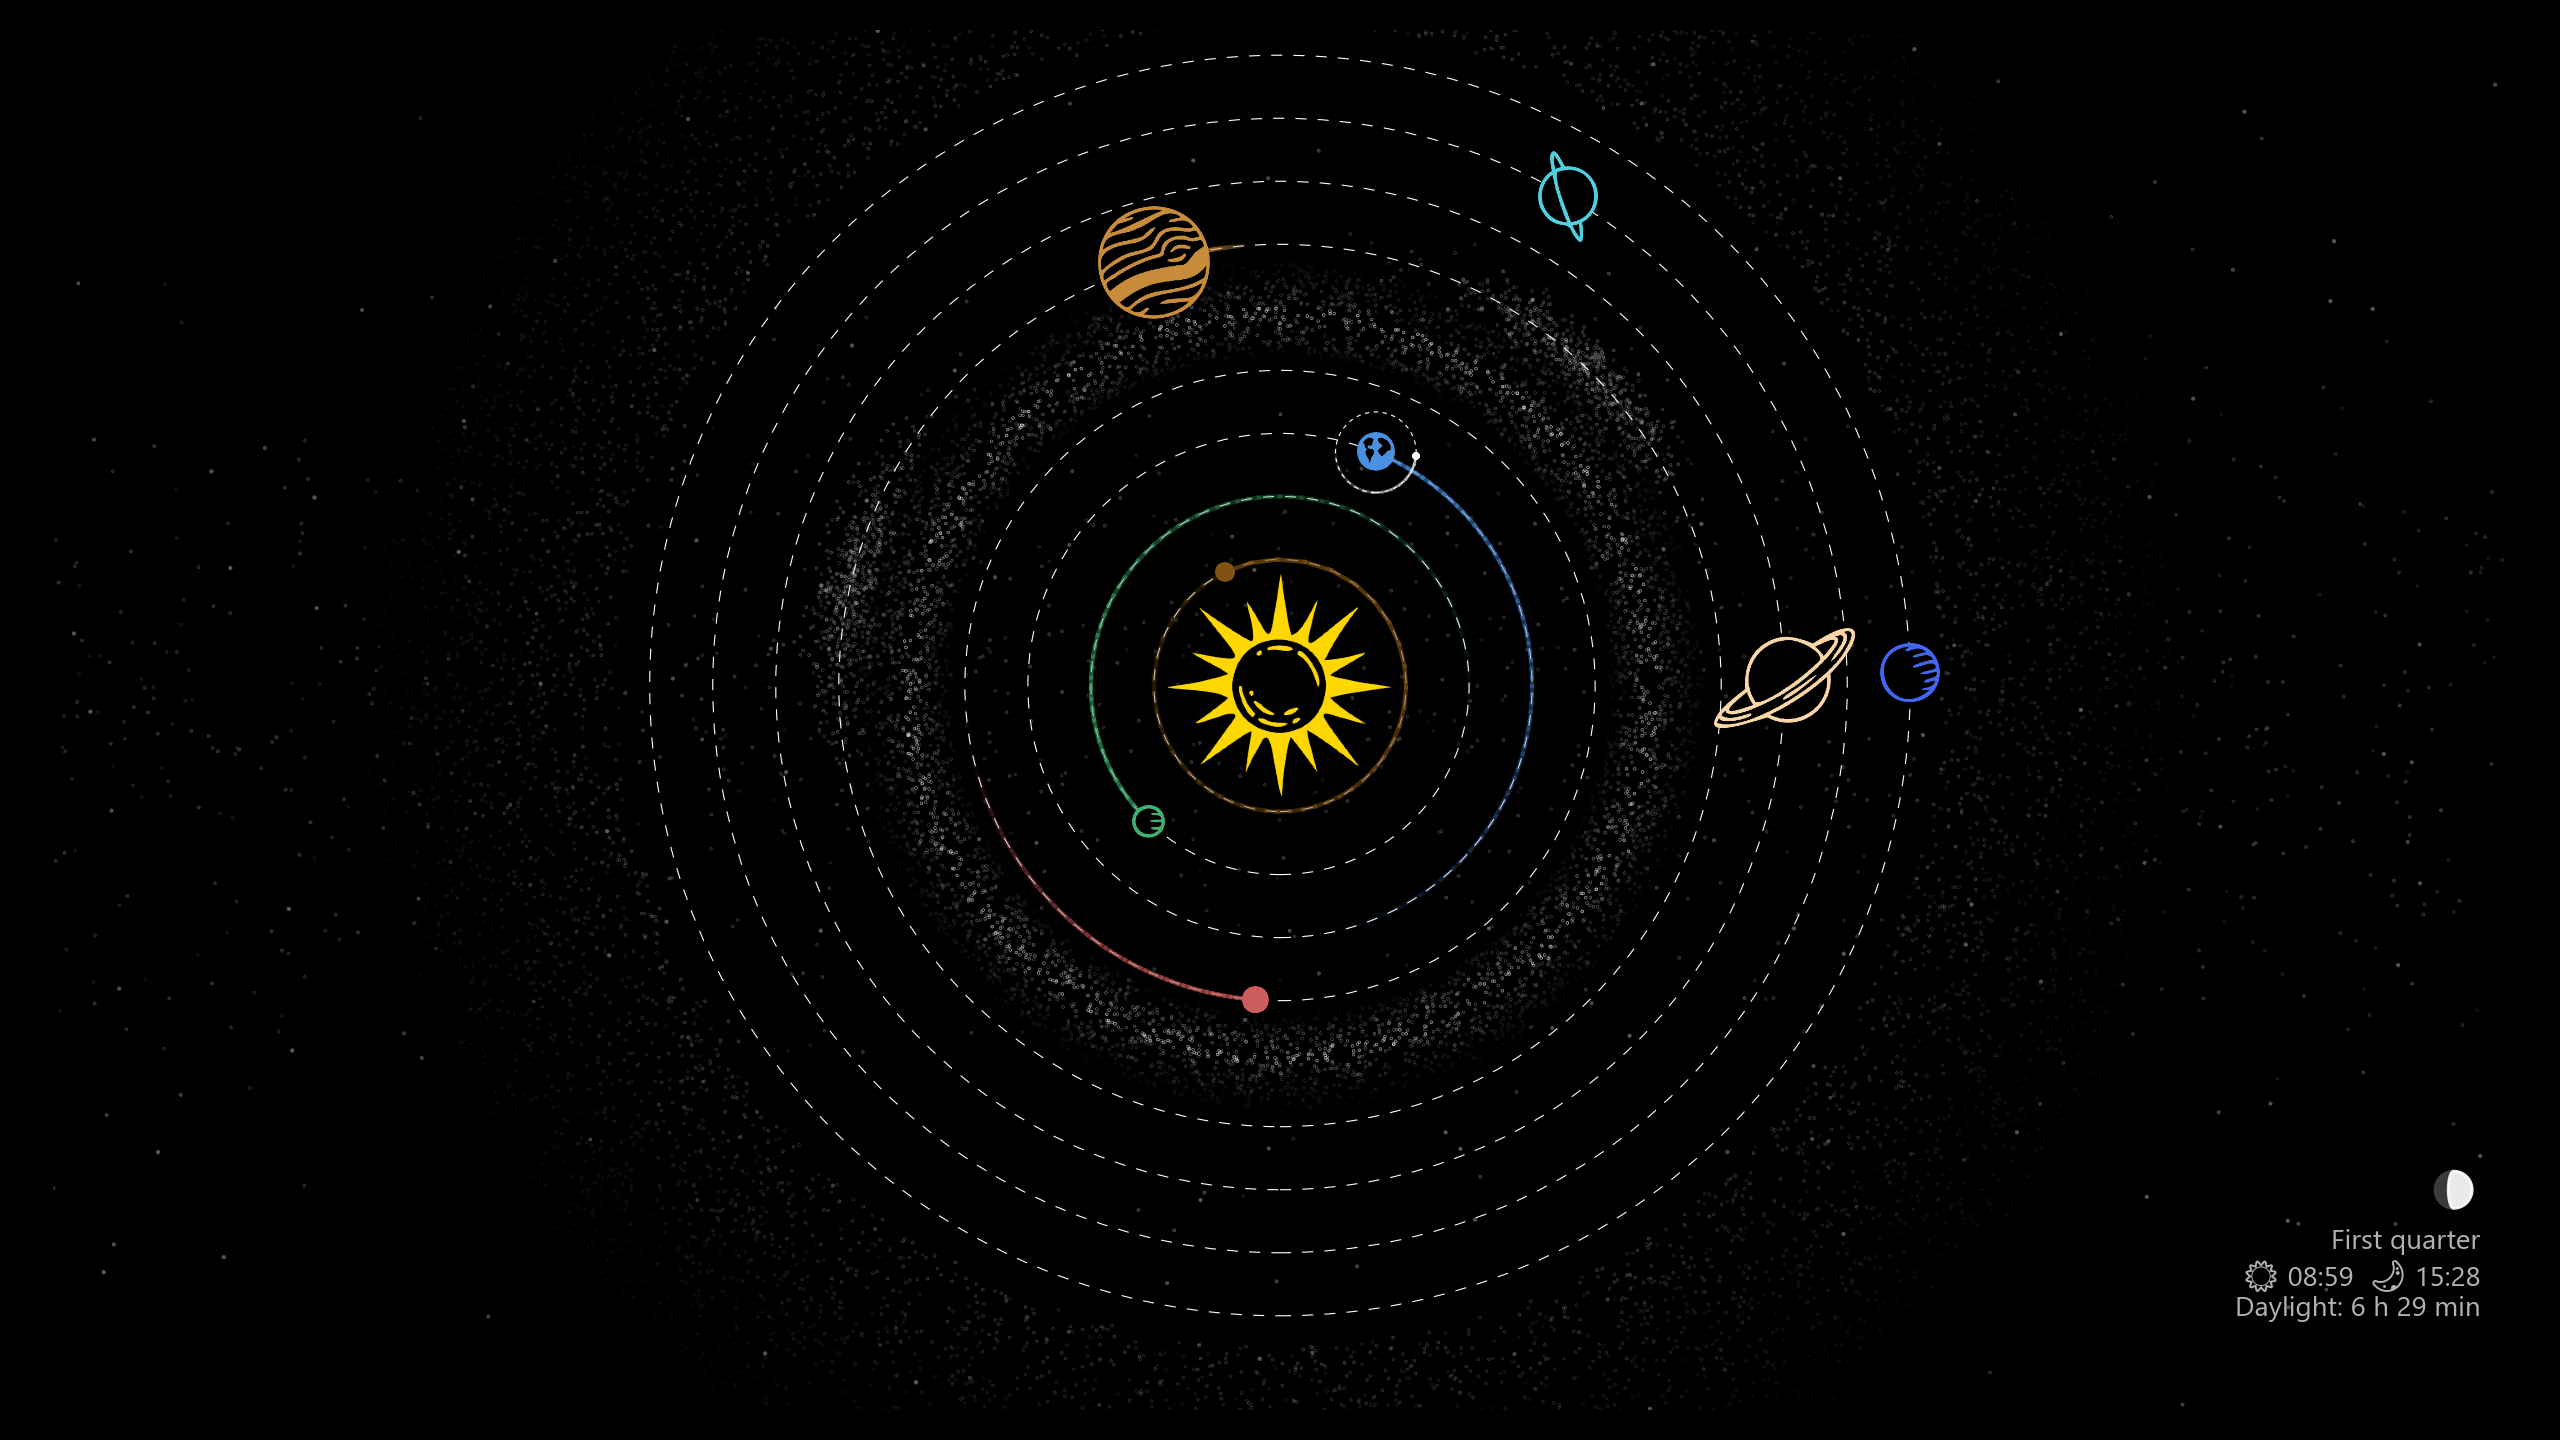
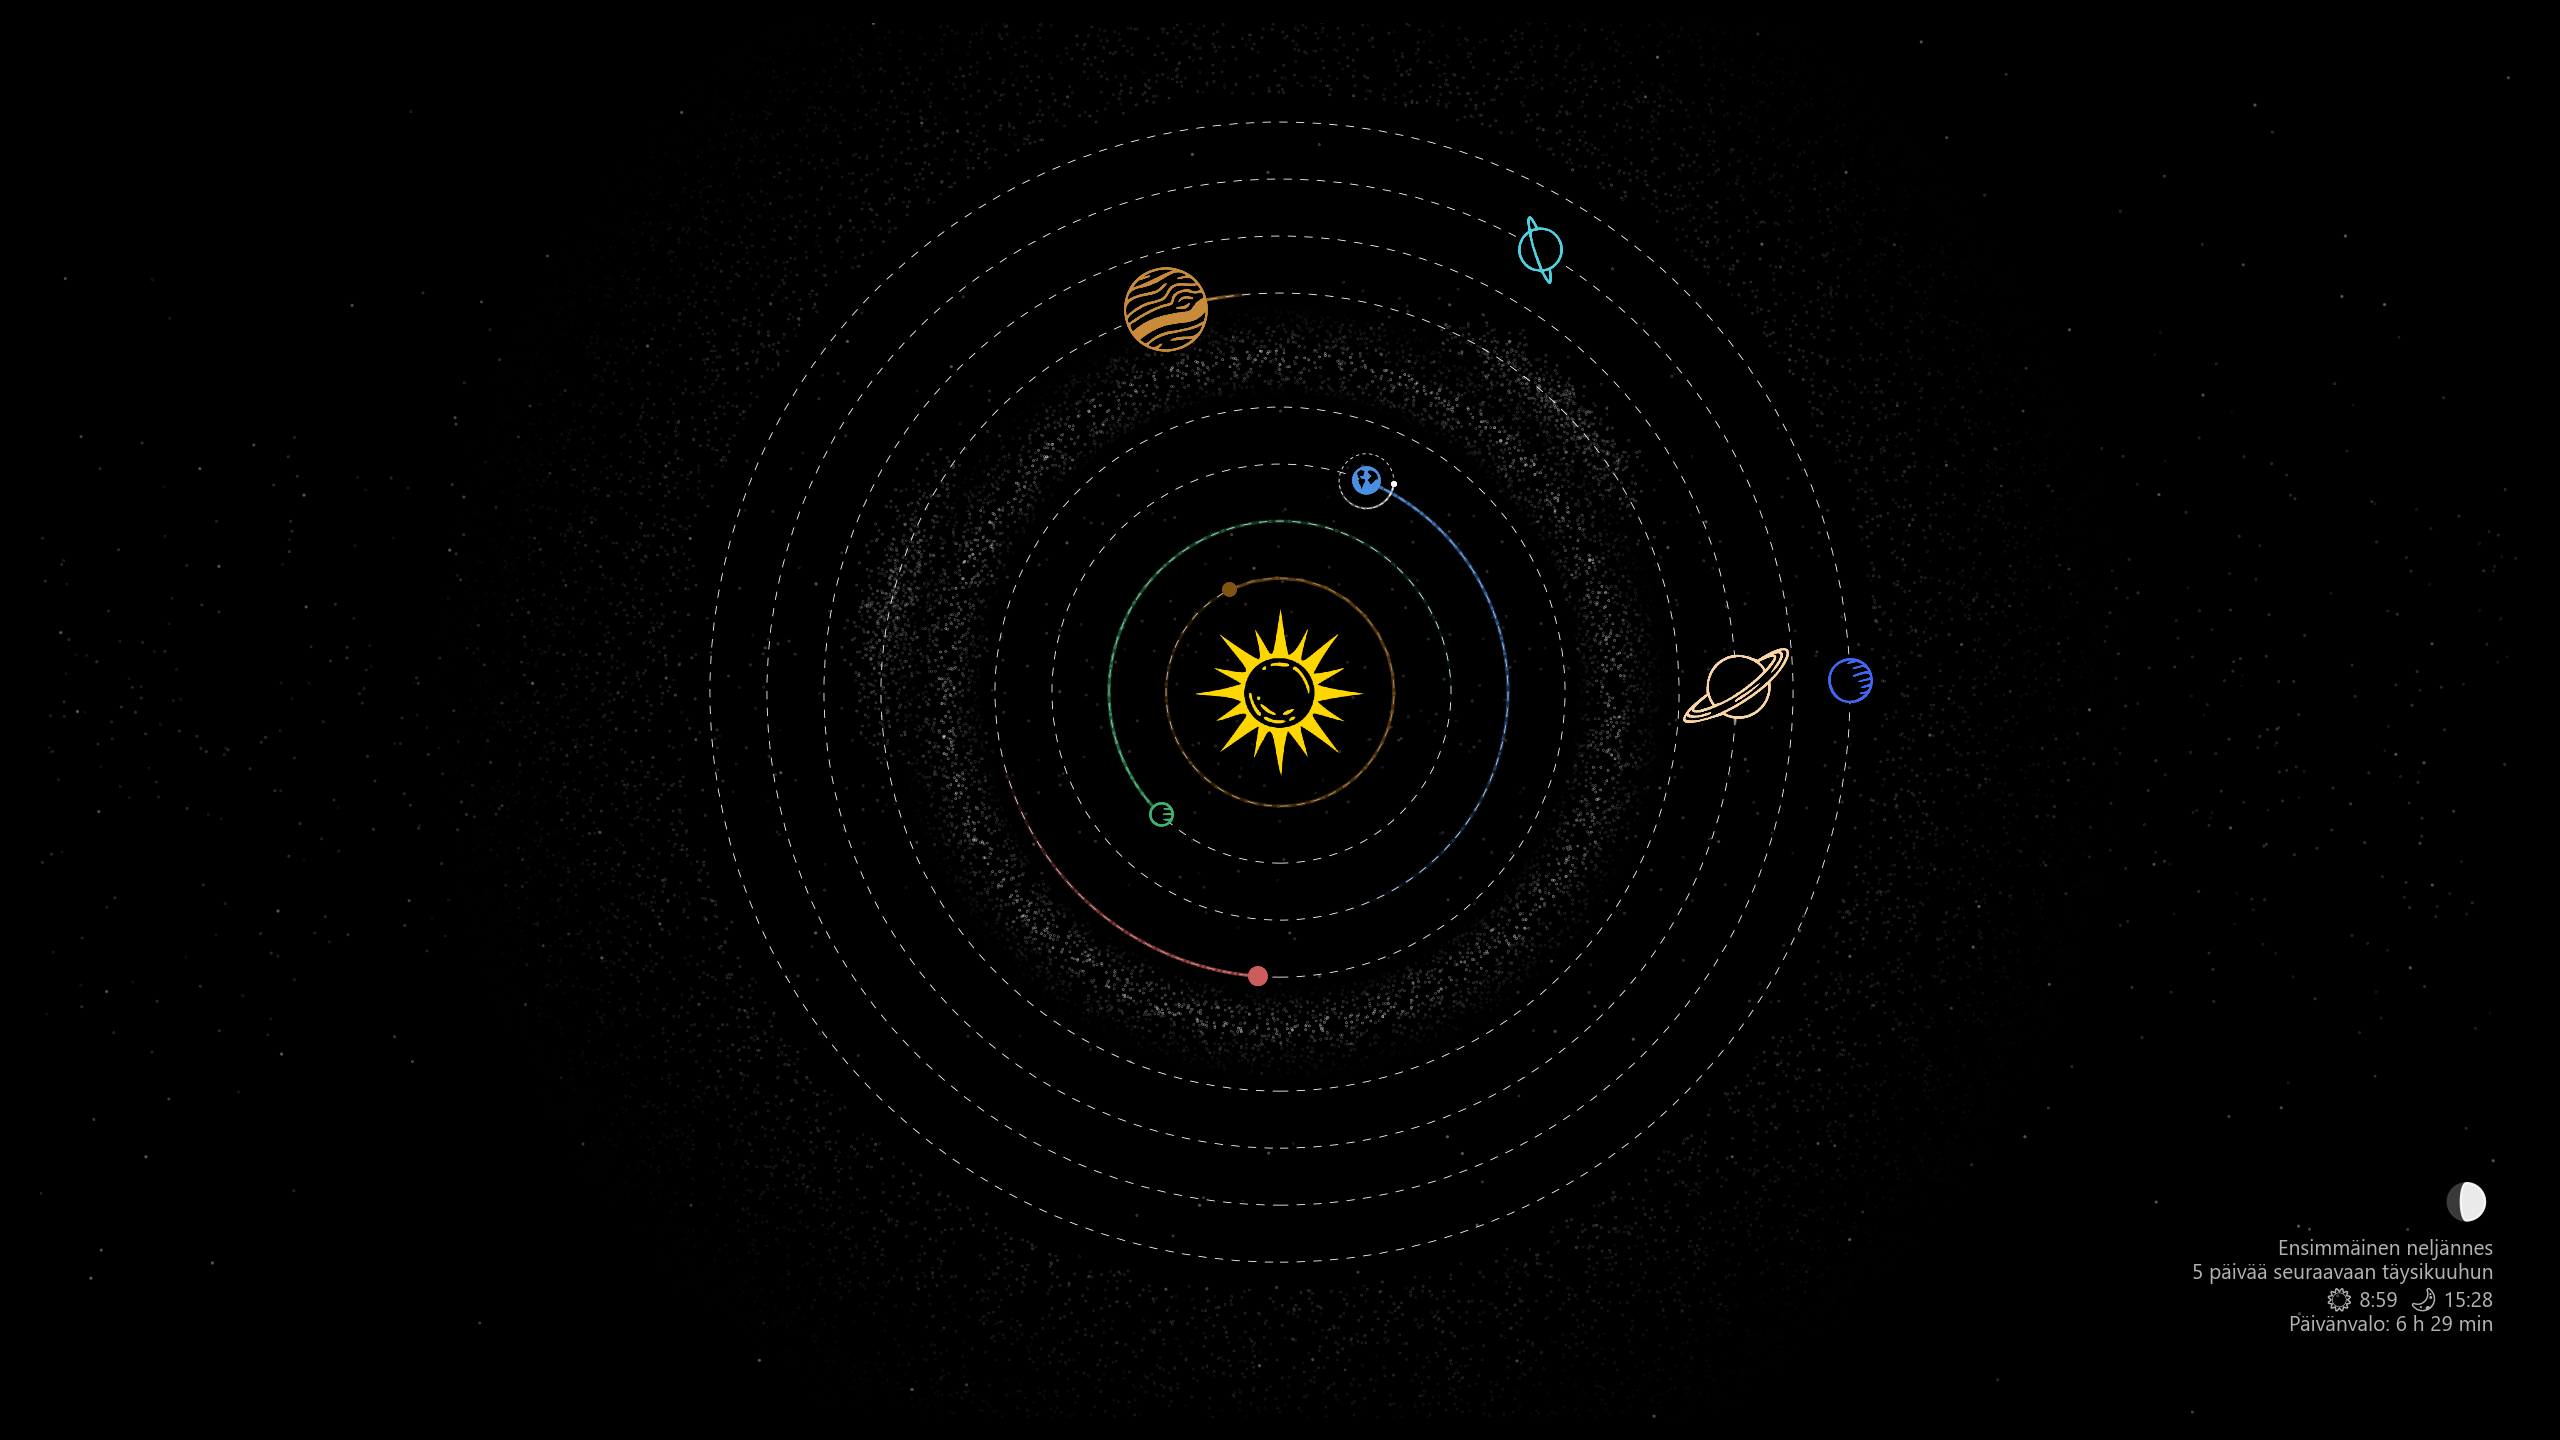
Corner text days to full moon

Changed region(s): [[0.3125, 0.0938, 0.7812, 0.75], [0.875, 0.8125, 0.9688, 0.9375]]

diff --git a/solarmap.py b/solarmap.py
@@ -1,4 +1,4 @@
-from astronomy import Time, Body, EclipticLongitude, GeoVector, Observer, SearchRiseSet, Direction, Illumination
+from astronomy import Time, Body, EclipticLongitude, GeoVector, Observer, SearchRiseSet, Direction, Illumination, SearchMoonPhase
 import math
 import matplotlib.pyplot as plt
 from matplotlib.offsetbox import OffsetImage, AnnotationBbox
@@ -16,8 +16,6 @@ from matplotlib import font_manager
 
 #Visual customizations
 #TODO: Fix stars cutoff from top and bottom
-#TODO: Bottom right corner info:
-#       days to next full moon
 #TODO: Kuiper belt rotation (practically invisible)
 #TODO: Trojans more teardrop shaped
 #TODO: Add asteroid belt rotation back
@@ -106,7 +104,7 @@ width_px = 2560
 height_px = 1440
 
 reference_height = 1440
-reference_dpi = 200
+reference_dpi = 150 # Reference DPI for scaling, change for bigger/smaller planets and stars
 dpi = int(height_px * (reference_dpi / reference_height))
 
 fig, ax = plt.subplots(figsize=(1, 1))
@@ -114,10 +112,10 @@ fig.set_size_inches(width_px/dpi, height_px/dpi)
 fig.patch.set_facecolor('black')
 ax.set_facecolor('black')
 cx, cy = 0.0, 0.0
-r_base = 0.95
+r_base = 0.85  # Ring radius base unit, change for bigger rings
 
-# Taskbar offset upwards percentage, so image is not behind taskbar
-taskbar_offset = 0.025
+# Taskbar offset upwards percentage, change to move image upwards
+taskbar_offset = 0.02
 
 # Shift center up by 5% of y-axis range
 cy_offset = taskbar_offset * 2.6  # 2.6 is your y-axis range (from -1.3 to 1.3)
@@ -445,8 +443,8 @@ sunrise_minute = sunrise_cal[4]
 sunset_hour = (sunset_cal[3] + local_offset_hours) % 24
 sunset_minute = sunset_cal[4]
 
-sunrise_time = f"{sunrise_hour:02d}:{sunrise_minute:02d}"
-sunset_time = f"{sunset_hour:02d}:{sunset_minute:02d}"
+sunrise_time = f"{sunrise_hour}:{sunrise_minute:02d}"
+sunset_time = f"{sunset_hour}:{sunset_minute:02d}"
 
 # Calculate daylight hours
 daylight_minutes = (sunset_hour * 60 + sunset_minute) - (sunrise_hour * 60 + sunrise_minute)
@@ -461,21 +459,21 @@ illumination = illum.phase_fraction
 
 # Determine phase name
 if phase_angle < 22.5 or phase_angle >= 337.5:
-    phase_name = "New Moon"
+    phase_name = "Uusikuu" #new moon
 elif phase_angle < 67.5:
-    phase_name = "Waxing crescent"
+    phase_name = "Kasvava sirppi" #waxing crescent
 elif phase_angle < 112.5:
-    phase_name = "First quarter"
+    phase_name = "Ensimmäinen neljännes" #first quarter
 elif phase_angle < 157.5:
-    phase_name = "Waxing gibbous"
+    phase_name = "Kasvava kupera kuu" #waxing gibbous
 elif phase_angle < 202.5:
-    phase_name = "Full moon"
+    phase_name = "Täysikuu" #full moon
 elif phase_angle < 247.5:
-    phase_name = "Waning gibbous"
+    phase_name = "Vähenevä kupera kuu" #waning gibbous
 elif phase_angle < 292.5:
-    phase_name = "Last quarter"
+    phase_name = "Viimeinen neljännes" #last quarter
 else:
-    phase_name = "Waning crescent"
+    phase_name = "Vähenevä sirppi" #waning crescent
 
 # Position for moon phase circle
 moon_indicator_x = text_x - 0.05
@@ -528,6 +526,13 @@ else:  # Waning
     ax.fill(x_coords, y_coords, color='white', alpha=0.9, zorder=11)
 
 
+# Search for next full moon (phase 180°) within next 30 days
+next_full_moon = SearchMoonPhase(180, utc, 30)
+days_to_full = next_full_moon.ut - utc.ut  # Difference in days
+
+
+
+
 # Calculate text position (bottom right with taskbar offset)
 fig_width, fig_height = fig.get_size_inches()
 aspect = fig_width / fig_height
@@ -540,7 +545,7 @@ else:
     text_y = (-1.3 / aspect) + (taskbar_offset * 2.6) + 0.1
 
 # Add text
-info_text = f"{phase_name}\n☀ {sunrise_time}  🌙 {sunset_time}\nDaylight: {daylight_hours} h {daylight_mins} min"
+info_text = f"{phase_name}\n{days_to_full:.0f} päivää seuraavaan täysikuuhun\n☀ {sunrise_time}  🌙 {sunset_time}\nPäivänvalo: {daylight_hours} h {daylight_mins} min"
 ax.text(text_x, text_y, info_text,
         color='white', fontsize=10,
         ha='right', va='bottom',
